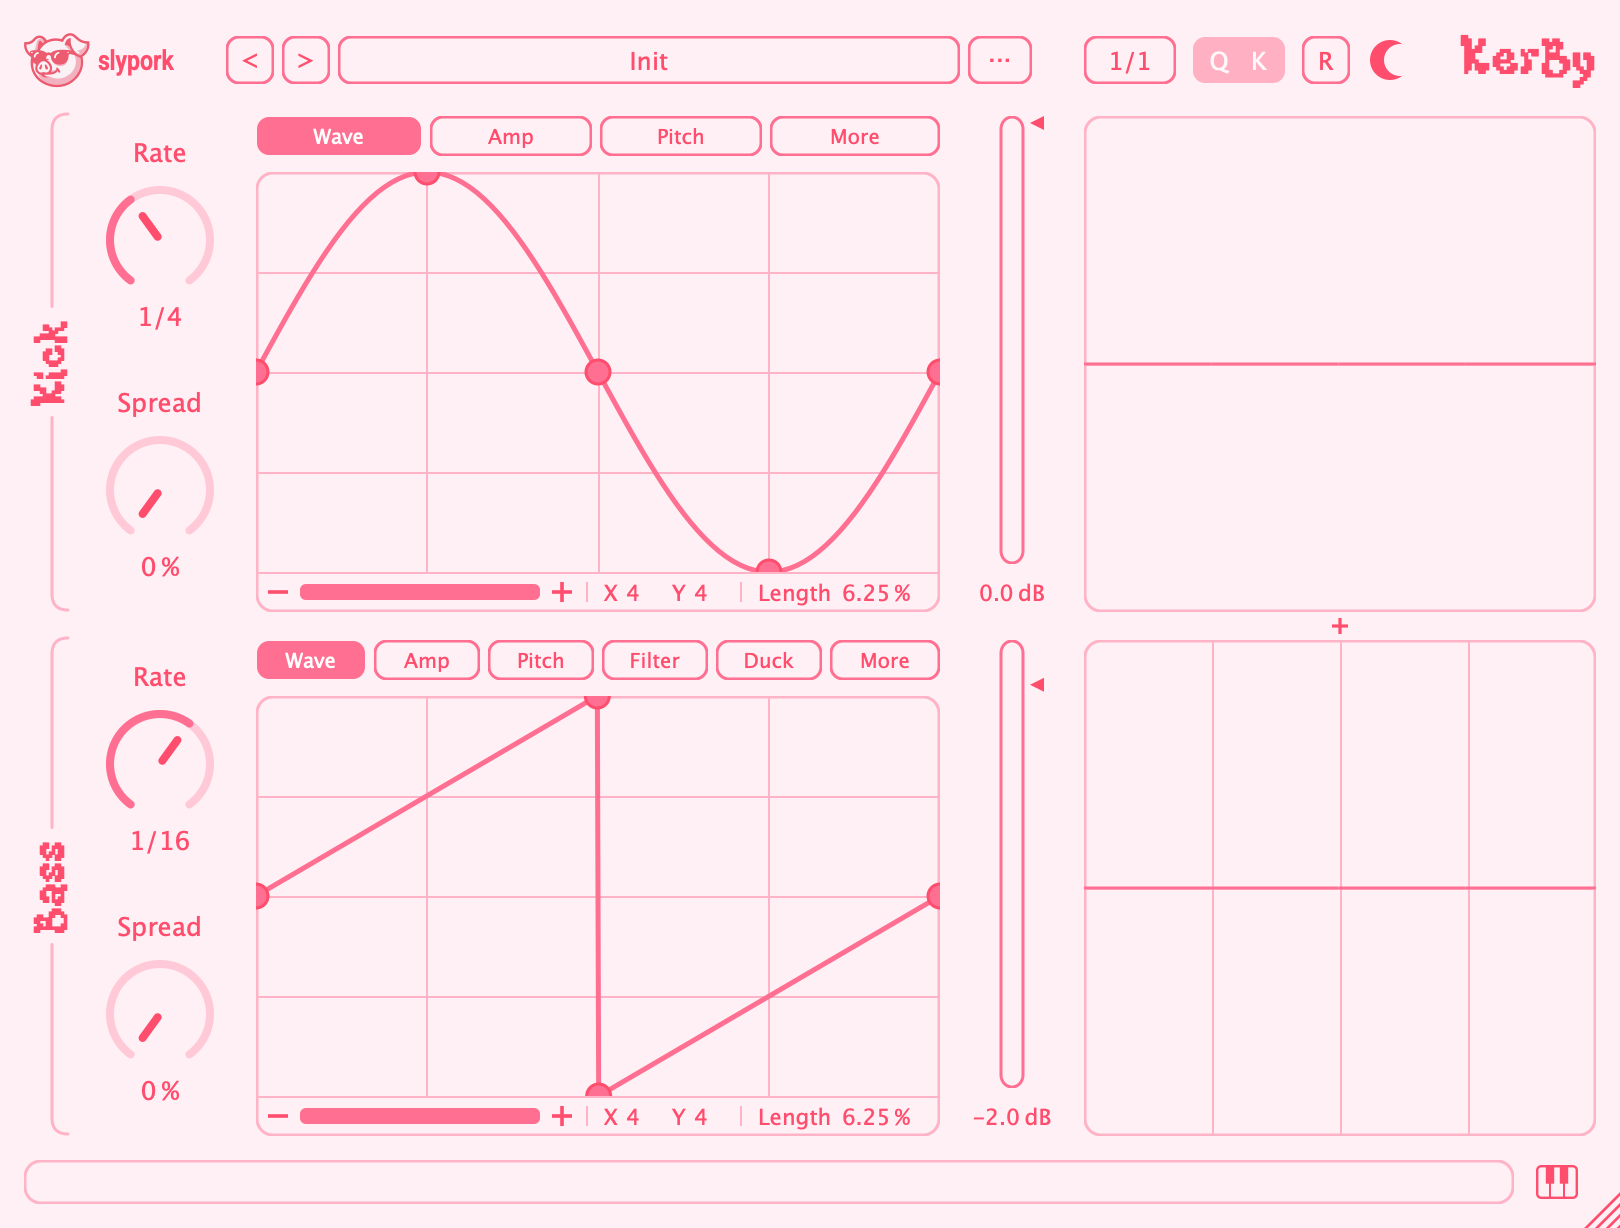
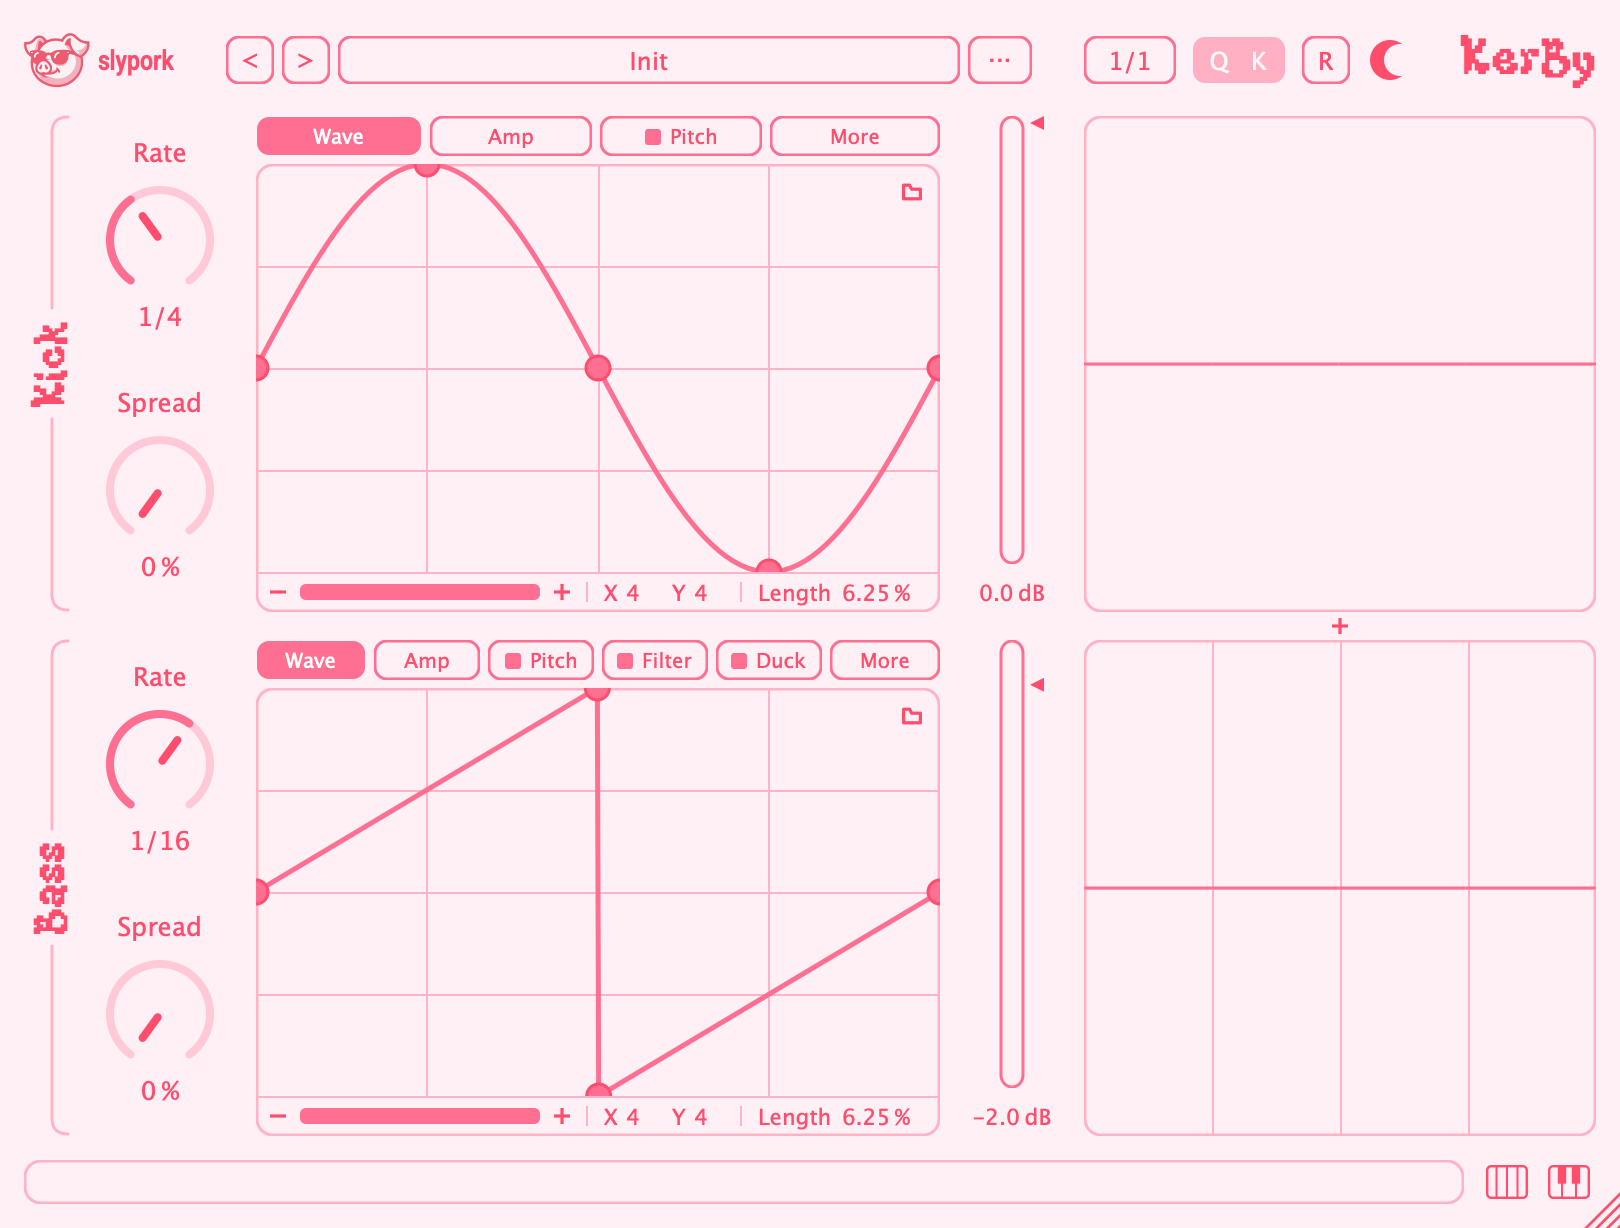
KerBy: v0.6.0

diff --git a/kerby/index.html b/kerby/index.html
@@ -6,7 +6,7 @@
     <meta name="viewport" content="width=device-width">
     <title>KerBy | Slypork</title>
     <meta name="description"
-        content="KerBy, a tempo-synced kick and bass percussion synth. Two voices, the bass ducked by the kick, every envelope a curve you draw. Closed beta.">
+        content="KerBy, a tempo-synced kick and bass percussion synth. Two voices, the bass ducked by the kick, every envelope a curve you draw, samples you drop in. Closed beta.">
     <link rel="icon" href="../assets/images/slypork_logo.svg" type="image/svg+xml">
     <link rel="icon" type="image/png" sizes="32x32" href="../assets/images/favicon-32x32.png">
     <link rel="apple-touch-icon" href="../assets/images/favicon-192x192.png">
@@ -87,14 +87,17 @@
                             basslines, but can be used for much more.
                             <br><br>
                             Every envelope in it is a curve: amp, pitch, filter, the duck, and the oscillator waveform
-                            itself. Start from a preset shape or draw your own. Hold a note and the clock plays the
-                            pattern for you, or feed it a rhythm and it follows, live with your hands on the knobs, or
-                            as clips you launch or draw in.
+                            itself. Start from a preset shape or draw your own, or drop an audio file onto a voice and
+                            it plays that instead, retriggered by the same clock.
+                            <br><br>
+                            There are two ways to play it. Hold a note down and the clock divides it into a pattern for
+                            you, live, with your hands on the knobs. Or turn Quantize off and draw short notes into a
+                            clip, and every hit lands where you put it.
                         </p>
                         <p class="mt-6">
                             <span
                                 class="inline-block rounded-full border border-kerbyPink bg-kerbyCream text-kerbyRed dark:border-kerbyDarkAccent dark:bg-kerbyDarkPanel dark:text-kerbyDarkText text-base font-light px-4 py-1">
-                                Closed beta &middot; <span data-kerby-version>v0.5.0</span>
+                                Closed beta &middot; <span data-kerby-version>v0.6.0</span>
                             </span>
                         </p>
                     </div>
@@ -194,7 +197,7 @@
                             <p class="fig-row:flex-1">
                                 <span class="text-kerbyRed dark:text-kerbyDarkText">Everything is drawn.</span>
                                 Amp, pitch, filter, the duck and the waveform all share one editor. Click to add a
-                                point, drag to move it, Cmd-drag to bend a segment.
+                                point, drag to move it, Option-drag (Alt on Windows) to bend a segment.
                             </p>
                             <svg class="kerby-fig w-full fig-row:w-72 fig-row:shrink-0" viewBox="0 0 320 150"
                                 aria-hidden="true">
@@ -225,13 +228,44 @@
                         </div>
                         <div class="pt-6 flex flex-col fig-row:flex-row fig-row:items-center gap-3 fig-row:gap-6">
                             <p class="fig-row:flex-1">
-                                <span class="text-kerbyRed dark:text-kerbyDarkText">On the grid, when you want
-                                    it.</span>
-                                Quantize (Q) keeps the notes snapped to the grid. Launch with Kick (K) starts both
-                                voices together, instead of letting the faster one in first.
+                                <span class="text-kerbyRed dark:text-kerbyDarkText">Or drop in a sample.</span>
+                                Drag an audio file onto a voice's Wave tab and it plays that instead of the drawn
+                                shape, trimmed to the part you want, retriggered by the same clock and pitched by
+                                the note you play.
                             </p>
                             <svg class="kerby-fig w-full fig-row:w-72 fig-row:shrink-0 fig-row:order-first"
                                 viewBox="0 0 320 150" aria-hidden="true">
+                                <rect x="1" y="1" width="318" height="148" rx="10" fill="var(--kerby-panel)"
+                                    stroke="var(--kerby-accent)" stroke-width="1" />
+                                <line x1="1" y1="75" x2="319" y2="75" stroke="var(--kerby-grid)" stroke-width="1" />
+                                <!-- the part of the file the trim leaves out -->
+                                <path d="M232 69 L255 71 L275 73 L300 74 L300 76 L275 77 L255 79 L232 81 Z"
+                                    fill="var(--kerby-grid)" />
+                                <!-- the trimmed region, played from phase 0 to 1 -->
+                                <path
+                                    d="M30 75 L40 23 L55 31 L75 39 L100 46 L130 53 L165 60 L200 65 L232 69 L232 81 L200 85 L165 90 L130 97 L100 104 L75 111 L55 119 L40 127 Z"
+                                    fill="var(--kerby-strong)" />
+                                <!-- the two trim handles -->
+                                <g stroke="var(--kerby-ink)" stroke-width="2">
+                                    <line x1="30" y1="24" x2="30" y2="126" />
+                                    <line x1="232" y1="24" x2="232" y2="126" />
+                                </g>
+                                <g fill="var(--kerby-ink)">
+                                    <rect x="26" y="18" width="9" height="9" rx="2" />
+                                    <rect x="228" y="18" width="9" height="9" rx="2" />
+                                </g>
+                            </svg>
+                        </div>
+                        <div class="pt-6 flex flex-col fig-row:flex-row fig-row:items-center gap-3 fig-row:gap-6">
+                            <p class="fig-row:flex-1">
+                                <span class="text-kerbyRed dark:text-kerbyDarkText">On the grid, when you want
+                                    it.</span>
+                                Quantize (Q) holds notes to the grid, so a chord grabbed halfway through a beat
+                                still comes in on it. Turn it off and each note fires where you played it. Launch with
+                                Kick (K) starts both voices together, instead of letting the faster one in first.
+                            </p>
+                            <svg class="kerby-fig w-full fig-row:w-72 fig-row:shrink-0" viewBox="0 0 320 150"
+                                aria-hidden="true">
                                 <rect x="1" y="1" width="318" height="148" rx="10" fill="var(--kerby-panel)"
                                     stroke="var(--kerby-accent)" stroke-width="1" />
                                 <!-- a note arriving early, held back onto the line -->
@@ -249,6 +283,49 @@
                                 <path d="M213 69 L 220 75 L 213 81" fill="none" stroke="var(--kerby-strong)"
                                     stroke-width="2" stroke-linecap="round" stroke-linejoin="round" />
                                 <circle cx="230" cy="75" r="6" fill="var(--kerby-strong)" />
+                            </svg>
+                        </div>
+                        <div class="pt-6 flex flex-col fig-row:flex-row fig-row:items-center gap-3 fig-row:gap-6">
+                            <p class="fig-row:flex-1">
+                                <span class="text-kerbyRed dark:text-kerbyDarkText">Steps, under the bass.</span>
+                                A row of boxes saying which of its pulses actually sound, which is how an even run
+                                of them becomes a bassline. Drag a box up or down to tune that step, 24 semitones
+                                either way.
+                            </p>
+                            <svg class="kerby-fig w-full fig-row:w-72 fig-row:shrink-0 fig-row:order-first"
+                                viewBox="0 0 320 150" aria-hidden="true">
+                                <rect x="1" y="1" width="318" height="148" rx="10" fill="var(--kerby-panel)"
+                                    stroke="var(--kerby-accent)" stroke-width="1" />
+                                <!-- drag up or down to tune the step under it -->
+                                <g stroke="var(--kerby-ink)" stroke-width="2" stroke-linecap="round"
+                                    stroke-linejoin="round" fill="none">
+                                    <line x1="178" y1="28" x2="178" y2="52" />
+                                    <path d="M172 34 L178 28 L184 34" />
+                                    <path d="M172 46 L178 52 L184 46" />
+                                </g>
+                                <!-- eight boxes: filled sounds, hollow doesn't -->
+                                <g fill="var(--kerby-strong)">
+                                    <rect x="19" y="60" width="30" height="30" rx="5" />
+                                    <rect x="91" y="60" width="30" height="30" rx="5" />
+                                    <rect x="163" y="60" width="30" height="30" rx="5" />
+                                    <rect x="199" y="60" width="30" height="30" rx="5" />
+                                    <rect x="271" y="60" width="30" height="30" rx="5" />
+                                </g>
+                                <g fill="none" stroke="var(--kerby-grid)" stroke-width="2">
+                                    <rect x="55" y="60" width="30" height="30" rx="5" />
+                                    <rect x="127" y="60" width="30" height="30" rx="5" />
+                                    <rect x="235" y="60" width="30" height="30" rx="5" />
+                                </g>
+                                <text x="178" y="80" text-anchor="middle" font-size="13"
+                                    fill="var(--kerby-panel)">+7</text>
+                                <!-- the pulses the boxes let through -->
+                                <g fill="var(--kerby-accent)">
+                                    <rect x="32" y="104" width="4" height="22" rx="2" />
+                                    <rect x="104" y="104" width="4" height="22" rx="2" />
+                                    <rect x="176" y="104" width="4" height="22" rx="2" />
+                                    <rect x="212" y="104" width="4" height="22" rx="2" />
+                                    <rect x="284" y="104" width="4" height="22" rx="2" />
+                                </g>
                             </svg>
                         </div>
                         <div class="pt-6 flex flex-col fig-row:flex-row fig-row:items-center gap-3 fig-row:gap-6">
@@ -290,9 +367,24 @@
                         </div>
                     </div>
 
+                    <h2 class="text-xl pt-8">Also in there:</h2>
+                    <p class="ml-4 text-lg font-light pt-2">
+                        - Presets, and a menu of starting shapes on every curve
+                        <br>
+                        - FM, noise and crush on both voices, resonance and glide on the bass
+                        <br>
+                        - Reverb on the kick, riding the same duck curve the bass does
+                        <br>
+                        - Free-running rates in Hz, for coming off the grid entirely
+                        <br>
+                        - A MIDI note out on every kick pulse, for sidechaining anything else
+                        <br>
+                        - Interface scale 75-200%, and a tooltip on every control
+                    </p>
+
                     <h2 class="text-xl pt-8">Where it's at:</h2>
                     <p class="ml-4 text-lg font-light pt-2">
-                        - Closed beta, <span data-kerby-version>v0.5.0</span>
+                        - Closed beta, <span data-kerby-version>v0.6.0</span>
                         <br>
                         - AU and VST3 on macOS, VST3 on Windows
                         <br>
@@ -320,19 +412,40 @@
                          never the attribute. -->
                     <!-- data-kerby-changelog:start -->
                     <div class="text-lg font-light">
-                        <h3 class="text-lg pt-4"><span class="text-kerbyRed dark:text-kerbyDarkText">v0.5.0</span><span class="text-base opacity-75"> &middot; 2026-08-22</span></h3>
+                        <h3 class="text-lg pt-4"><span class="text-kerbyRed dark:text-kerbyDarkText">v0.6.0</span><span class="text-base opacity-75"> &middot; 2026-09-06</span></h3>
                         <h4 class="text-base pt-3 opacity-75">Added</h4>
                         <ul class="list-disc pl-5 pt-1 space-y-2">
-                            <li><strong>Grid divisions on the shape editor's strip</strong>, X and Y, between the zoom bar and Length. They rule the gridlines and set what Shift+drag snaps to.</li>
-                            <li><strong>Random Steps and Random Curves</strong>, at the foot of the shape editor's right-click menu. Both draw one step per X division with every level on a Y gridline.</li>
+                            <li><strong>Drop an audio file on a voice's Wave tab and that voice plays it as a one-shot</strong> instead of its drawn waveform, retriggered by the same pulse clock.</li>
+                            <li><strong>A step row under the Bass masks which of its pulses actually sound, and tunes them.</strong> Drag a box up or down for ±24 semitones on that step. Show the row from the bottom bar.</li>
+                            <li><strong>Key, on both voices' More tabs</strong> — pins that voice to one note, so what you play only triggers it.</li>
+                            <li><strong>Crush, on both voices' More tabs.</strong> Sample rate reduction.</li>
+                            <li><strong>A bypass box on the Pitch, Filter and Duck tabs.</strong></li>
                         </ul>
                         <h4 class="text-base pt-3 opacity-75">Changed</h4>
                         <ul class="list-disc pl-5 pt-1 space-y-2">
-                            <li><strong>Letting go of the tempo wheel puts the pattern back on the grid at once</strong>, rather than walking it there over the following bar. <strong>Walk back</strong>, at the bottom of the wheel's right-click menu, ramps it there over the next bar instead, with Quantize on.</li>
-                            <li><strong>Bending a curve in the shape editor is Option+drag</strong> (Alt on Windows), not Cmd.</li>
+                            <li><strong>The More tab's knobs are bracketed into named runs.</strong></li>
+                            <li><strong>Reset window size is now an item in the right-click scale menu.</strong></li>
+                        </ul>
+                        <h4 class="text-base pt-3 opacity-75">Fixed</h4>
+                        <ul class="list-disc pl-5 pt-1 space-y-2">
+                            <li><strong>Turning Rate to a faster division while a note is held speeds the pulse up immediately</strong>, rather than waiting up to four beats for the slower rate's already-scheduled pulse to arrive first.</li>
+                            <li><strong>Sweeping a free-running Rate in Hz now accelerates smoothly</strong>, rather than lurching the other way on some pulses.</li>
+                            <li><strong>Spread no longer eats headroom under FM.</strong></li>
+                            <li><strong>Noise follows Spread</strong>, widening with the oscillators instead of staying centred.</li>
                         </ul>
                         <details class="pt-6">
                             <summary class="text-base font-light cursor-pointer">Earlier versions</summary>
+                            <h3 class="text-lg pt-4"><span class="text-kerbyRed dark:text-kerbyDarkText">v0.5.0</span><span class="text-base opacity-75"> &middot; 2026-08-22</span></h3>
+                            <h4 class="text-base pt-3 opacity-75">Added</h4>
+                            <ul class="list-disc pl-5 pt-1 space-y-2">
+                                <li><strong>Grid divisions on the shape editor's strip</strong>, X and Y, between the zoom bar and Length. They rule the gridlines and set what Shift+drag snaps to.</li>
+                                <li><strong>Random Steps and Random Curves</strong>, at the foot of the shape editor's right-click menu. Both draw one step per X division with every level on a Y gridline.</li>
+                            </ul>
+                            <h4 class="text-base pt-3 opacity-75">Changed</h4>
+                            <ul class="list-disc pl-5 pt-1 space-y-2">
+                                <li><strong>Letting go of the tempo wheel puts the pattern back on the grid at once</strong>, rather than walking it there over the following bar. <strong>Walk back</strong>, at the bottom of the wheel's right-click menu, ramps it there over the next bar instead, with Quantize on.</li>
+                                <li><strong>Bending a curve in the shape editor is Option+drag</strong> (Alt on Windows), not Cmd.</li>
+                            </ul>
                             <h3 class="text-lg pt-4"><span class="text-kerbyRed dark:text-kerbyDarkText">v0.4.0</span><span class="text-base opacity-75"> &middot; 2026-08-20</span></h3>
                             <h4 class="text-base pt-3 opacity-75">Added</h4>
                             <ul class="list-disc pl-5 pt-1 space-y-2">
